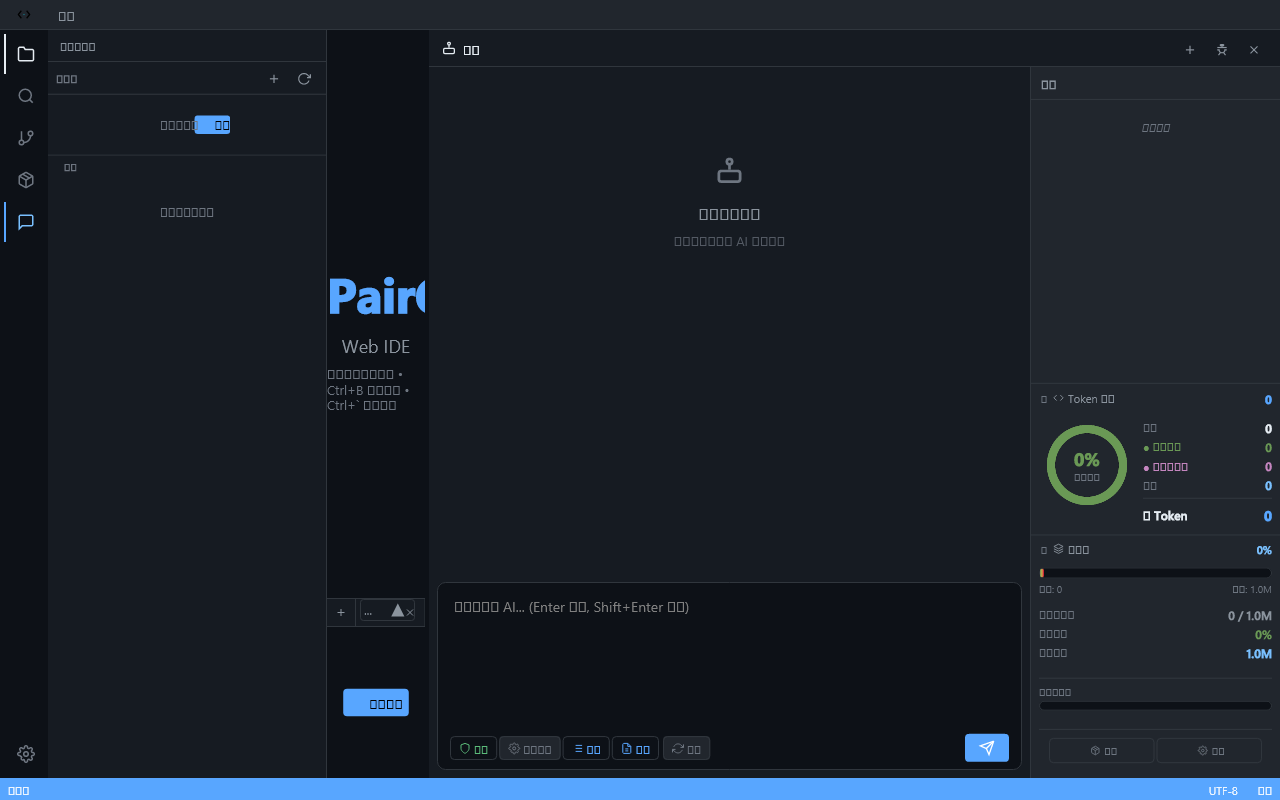
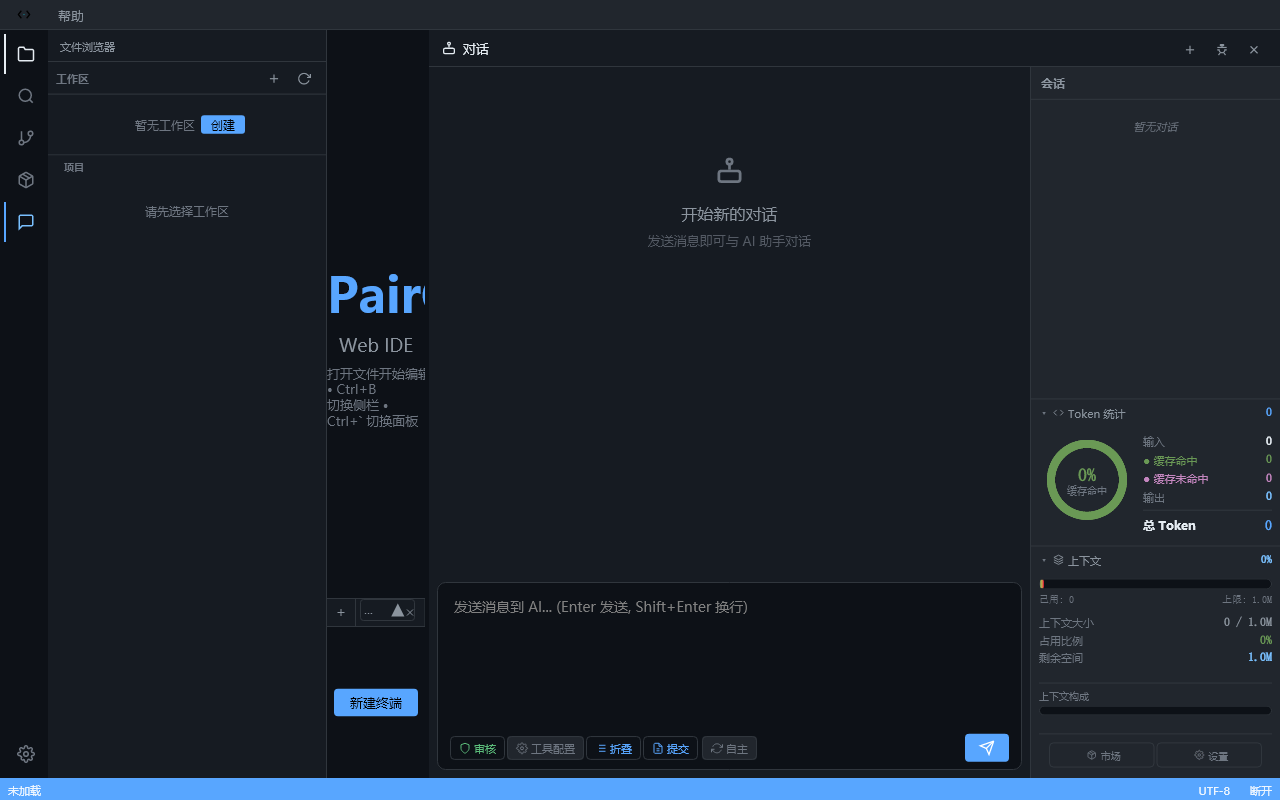
fix: desktop_probe loads FontManager for consistent CJK measurement

diff --git a/dev/desktop_probe/main.go b/dev/desktop_probe/main.go
@@ -13,6 +13,8 @@ import (
 	"regexp"
 	"strings"
 
+	"wb-ui/layout"
+	"wb-ui/platform/graphics"
 	"wb-ui/webkit"
 )
 
@@ -47,6 +49,24 @@ func main() {
 		log.Fatalf("read index.html: %v", err)
 	}
 	log.Printf("HTML: %d bytes, distDir=%s", len(htmlData), distDir)
+
+	// Mirror host.go: initialize the FontManager (Microsoft YaHei default)
+	// so CJK measurement matches painting. Without it, skia falls back to a
+	// bare Arial whose glyph coverage differs per character, producing
+	// inconsistent widths (e.g. 会话 12px/char but 创建 5px/char).
+	if graphics.GetFontManager() == nil {
+		_ = graphics.InitFontManager("")
+		if mgr := graphics.GetFontManager(); mgr != nil {
+			mgr.LoadSystemFonts()
+		}
+	}
+	layout.MeasureTextFunc = func(family string, size float64, weight int, style, text string) float64 {
+		return graphics.MeasureText(graphics.Font{Family: family, Size: size, Weight: weight, Style: style}, text)
+	}
+	layout.FontMetricsFunc = func(family string, size float64, weight int, style string) (float64, float64, float64) {
+		f := graphics.Font{Family: family, Size: size, Weight: weight, Style: style}
+		return graphics.GlobalFontAscent(f), graphics.GlobalFontDescent(f), graphics.GlobalFontLineGap(f)
+	}
 
 	wv := webkit.NewWebView()
 	setupLoaders(wv, distDir)
